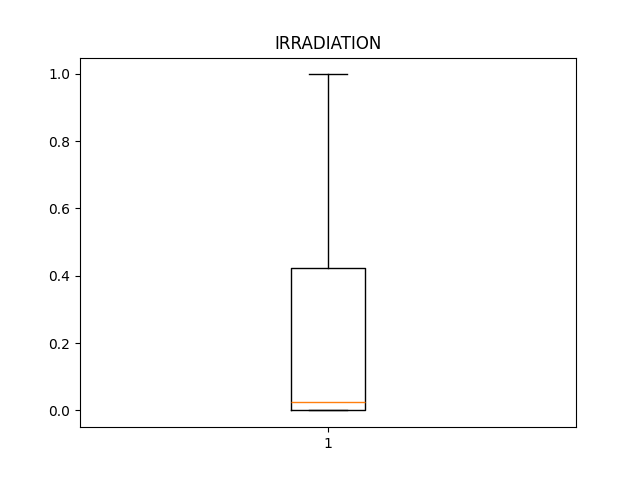
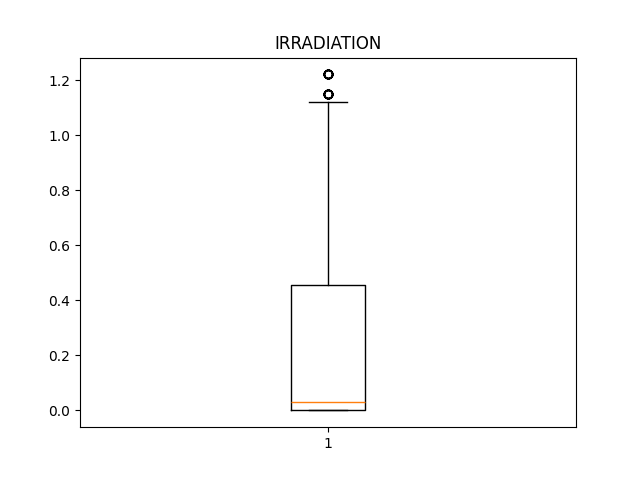
Добавлена корреляционная матрица

diff --git a/data_analysis/exploratory.py b/data_analysis/exploratory.py
@@ -3,6 +3,7 @@ import matplotlib.pyplot as plt
 import os
 import seaborn as sns
 import statsmodels.api as sm
+import numpy as np
 
 from config import (PATH_TO_GENERATION,
                     PATH_TO_WEATHER,
@@ -46,8 +47,8 @@ class ExploratoryDataAnalysis:
     def get_source_df(self, rows_to_read: int):
         if not self.path_to_generation and self.path_to_weather:
             raise Warning("Атрибут path_to_generation или path_to_weather не задан!")
-        generation_df = pd.read_csv(self.path_to_generation, nrows=rows_to_read, usecols=self.columns_to_read_generation)
-        weather_df = pd.read_csv(self.path_to_weather, nrows=466, usecols=self.columns_to_read_weather)
+        generation_df = pd.read_csv(self.path_to_generation, usecols=self.columns_to_read_generation)
+        weather_df = pd.read_csv(self.path_to_weather, usecols=self.columns_to_read_weather)
         generation_df, weather_df = self._set_dtype_to_datetime(
             [generation_df, weather_df], 'DATE_TIME'
         )
@@ -95,3 +96,25 @@ class ExploratoryDataAnalysis:
     def save_all_qqplot(self):
         for column_to_plot in BOXPLOT_COLUMNS:
             self._save_qqplot(column_to_plot)
+
+    def save_correlation_matrix(self):
+        correlation_matrix = self.df.corr()
+        x_axis = correlation_matrix.columns
+        y_axis = x_axis
+
+        fig, ax = plt.subplots(figsize=(16, 9))
+
+        ax.matshow(correlation_matrix)
+
+        plt.xticks(range(len(x_axis)), x_axis, fontsize=7)
+        plt.yticks(range(len(y_axis)), y_axis, fontsize=7)
+
+        # Нанесение подписей на ячейки матрицы
+        for row in range(len(y_axis)):
+            for column in range(len(x_axis)):
+                value = correlation_matrix.iloc[row, column]
+                plt.text(column, row, str(np.round(value, decimals=2)), va='center', ha='center')
+
+        plt.tight_layout()
+
+        self._save_plot(EXPLORATORY_ANALYSIS, 'correlation_matrix')

diff --git a/config.py b/config.py
@@ -9,7 +9,7 @@ PATH_TO_WEATHER = os.path.join(SOURCE_DIR, "Plant_1_Weather_Sensor_Data.csv")
 OUTPUT_DIR = os.path.join(BASE_DIR, "output_data")
 EXPLORATORY_ANALYSIS = os.path.join(OUTPUT_DIR, "exploratory_analysis")
 
-SOURCE_COLUMNS_TO_READ_GENERATION = ['DATE_TIME', 'DC_POWER', 'AC_POWER', 'DAILY_YIELD', 'TOTAL_YIELD']
+SOURCE_COLUMNS_TO_READ_GENERATION = ['DATE_TIME', 'DAILY_YIELD', 'TOTAL_YIELD']
 SOURCE_COLUMNS_TO_READ_WEATHER = ['DATE_TIME', 'AMBIENT_TEMPERATURE', 'MODULE_TEMPERATURE', 'IRRADIATION']
-BOXPLOT_COLUMNS = ['DC_POWER', 'AC_POWER', 'DAILY_YIELD', 'AMBIENT_TEMPERATURE', 'MODULE_TEMPERATURE', 'IRRADIATION']
+BOXPLOT_COLUMNS = ['DAILY_YIELD', 'AMBIENT_TEMPERATURE', 'MODULE_TEMPERATURE', 'IRRADIATION']
 PAIRPLOT_DROP = ['PLANT_ID']

diff --git a/main.py b/main.py
@@ -4,5 +4,8 @@ from data_analysis.exploratory import ExploratoryDataAnalysis
 
 if __name__ == '__main__':
     exploratory_analysis = ExploratoryDataAnalysis()
-    exploratory_analysis.save_all_qqplot()
-
+    #exploratory_analysis.save_all_box_plot()
+    #exploratory_analysis.save_pairplot()
+    #exploratory_analysis.save_all_qqplot()
+    #print(exploratory_analysis.df.describe())
+    exploratory_analysis.save_correlation_matrix()
